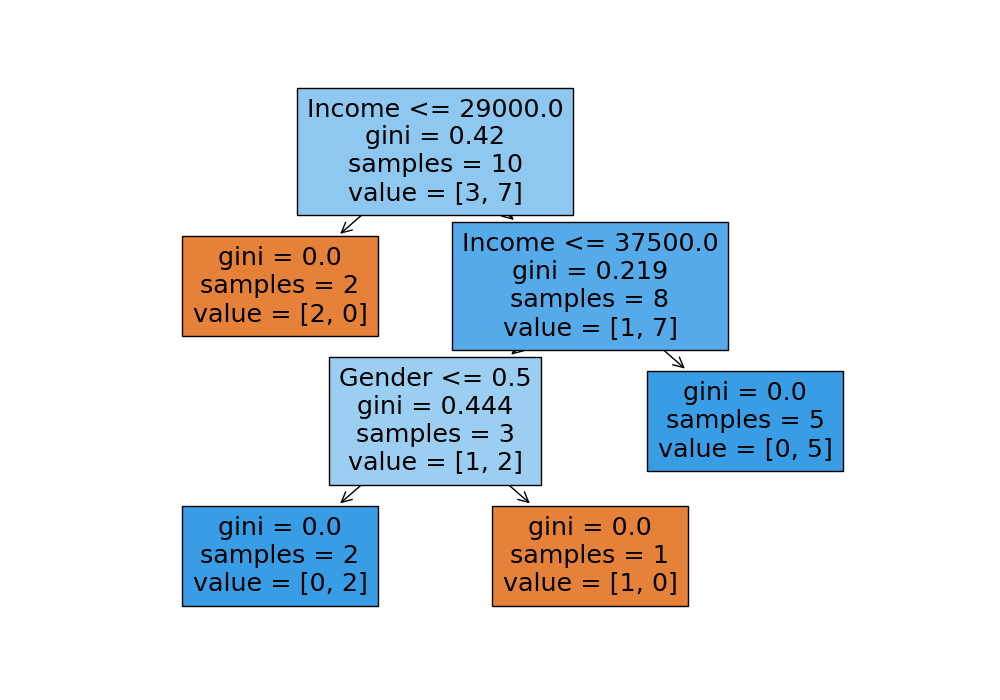
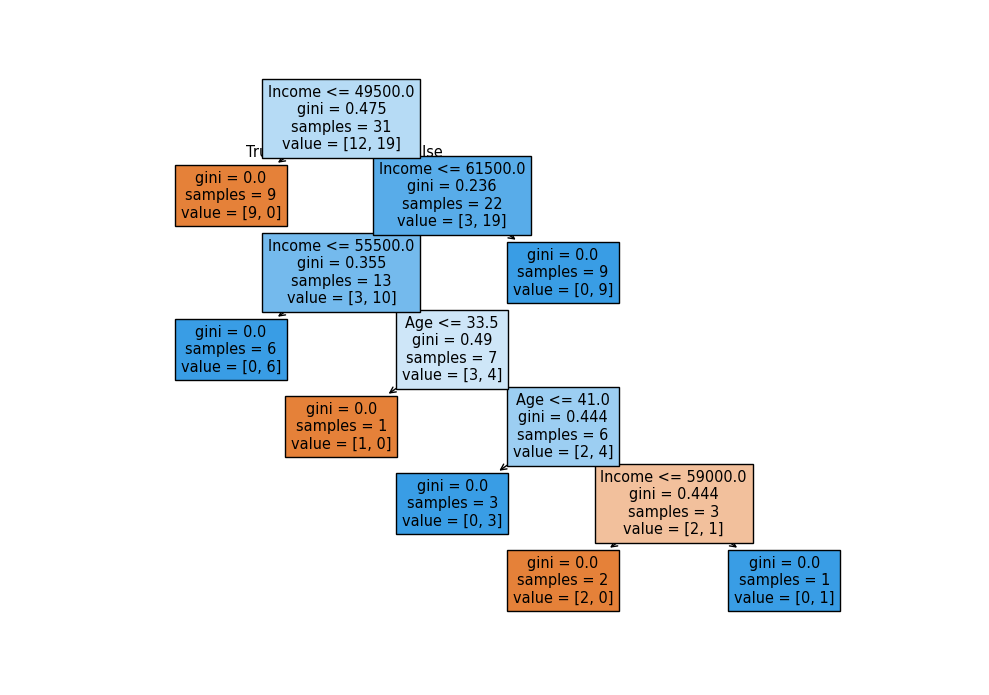
fixing

diff --git a/dataset.py b/dataset.py
@@ -12,16 +12,37 @@ def createCsv(filename, data):
 if __name__ == "__main__":
     # Data to be written to the CSV file
     data = [
-        {"Age": 25, "Gender": "Male", "Income": 35000, "Purchase": "No"},
-        {"Age": 30, "Gender": "Female", "Income": 30000, "Purchase": "Yes"},
-        {"Age": 35, "Gender": "Female", "Income": 32000, "Purchase": "Yes"},
-        {"Age": 20, "Gender": "Male", "Income": 40000, "Purchase": "Yes"},
-        {"Age": 40, "Gender": "Male", "Income": 45000, "Purchase": "Yes"},
-        {"Age": 45, "Gender": "Female", "Income": 28000, "Purchase": "No"},
-        {"Age": 55, "Gender": "Male", "Income": 55000, "Purchase": "Yes"},
-        {"Age": 50, "Gender": "Female", "Income": 26000, "Purchase": "No"},
-        {"Age": 22, "Gender": "Male", "Income": 42000, "Purchase": "Yes"},
-        {"Age": 38, "Gender": "Female", "Income": 58000, "Purchase": "Yes"},
+        {"Age": 20, "Gender": "Male", "Income": 40000, "Purchase": "No"},
+        {"Age": 22, "Gender": "Male", "Income": 42000, "Purchase": "No"},
+        {"Age": 25, "Gender": "Male", "Income": 90000, "Purchase": "Yes"},
+        {"Age": 30, "Gender": "Male", "Income": 55000, "Purchase": "Yes"},
+        {"Age": 40, "Gender": "Male", "Income": 60000, "Purchase": "Yes"},
+        {"Age": 55, "Gender": "Male", "Income": 70000, "Purchase": "Yes"},
+        {"Age": 60, "Gender": "Male", "Income": 75000, "Purchase": "Yes"},
+        {"Age": 28, "Gender": "Male", "Income": 50000, "Purchase": "Yes"},
+        {"Age": 35, "Gender": "Male", "Income": 57000, "Purchase": "Yes"},
+        {"Age": 24, "Gender": "Male", "Income": 46000, "Purchase": "No"},
+        {"Age": 27, "Gender": "Male", "Income": 49000, "Purchase": "No"},
+        {"Age": 32, "Gender": "Male", "Income": 60000, "Purchase": "No"},
+        {"Age": 40, "Gender": "Male", "Income": 65000, "Purchase": "Yes"},
+        {"Age": 45, "Gender": "Male", "Income": 70000, "Purchase": "Yes"},
+        {"Age": 52, "Gender": "Male", "Income": 75000, "Purchase": "Yes"},
+        {"Age": 30, "Gender": "Female", "Income": 45000, "Purchase": "No"},
+        {"Age": 32, "Gender": "Female", "Income": 48000, "Purchase": "No"},
+        {"Age": 35, "Gender": "Female", "Income": 47000, "Purchase": "No"},
+        {"Age": 38, "Gender": "Female", "Income": 60000, "Purchase": "Yes"},
+        {"Age": 40, "Gender": "Female", "Income": 55000, "Purchase": "Yes"},
+        {"Age": 45, "Gender": "Female", "Income": 50000, "Purchase": "Yes"},
+        {"Age": 50, "Gender": "Female", "Income": 48000, "Purchase": "No"},
+        {"Age": 60, "Gender": "Female", "Income": 65000, "Purchase": "Yes"},
+        {"Age": 65, "Gender": "Female", "Income": 60000, "Purchase": "Yes"},
+        {"Age": 33, "Gender": "Female", "Income": 49000, "Purchase": "No"},
+        {"Age": 29, "Gender": "Female", "Income": 52000, "Purchase": "Yes"},
+        {"Age": 34, "Gender": "Female", "Income": 54000, "Purchase": "Yes"},
+        {"Age": 42, "Gender": "Female", "Income": 56000, "Purchase": "No"},
+        {"Age": 47, "Gender": "Female", "Income": 58000, "Purchase": "No"},
+        {"Age": 56, "Gender": "Female", "Income": 63000, "Purchase": "Yes"},
+        {"Age": 62, "Gender": "Female", "Income": 65000, "Purchase": "Yes"},
     ]
 
     # Call the function to create the CSV file

diff --git a/run.py b/run.py
@@ -8,24 +8,27 @@ def main():
     df = pd.read_csv("./data/data.csv")
 
     # Map categorical variables to numerical values
-    d = {"Female": 0, "Male": 1}
-    df["Gender"] = df["Gender"].map(d)
-    d = {"Yes": 1, "No": 0}
-    df["Purchase"] = df["Purchase"].map(d)
+    d = {'Female': 0, 'Male': 1}
+    df['Gender'] = df['Gender'].map(d)
+    d = {'Yes': 1, 'No': 0}
+    df['Purchase'] = df['Purchase'].map(d)
 
     # Define features and target variable
-    features = ["Age", "Gender", "Income"]
+    features = ['Age', 'Gender', 'Income']
     X = df[features]
-    Y = df["Purchase"]
+    Y = df['Purchase']
 
     # Train Decision Tree Classifier
     dtree = DecisionTreeClassifier()
     dtree = dtree.fit(X, Y)
 
     # Predict
-    prediction = dtree.predict([[30, 1, 50000]])
+    input_data = pd.DataFrame([[50, 1, 50000]], columns=features)
+    prediction = dtree.predict(input_data)
     print("Prediction:", prediction)
 
+    print("[1] means 'Yes'")
+    print("[0] means 'No'")
 
 if __name__ == "__main__":
     main()

diff --git a/plot_decision_tree.py b/plot_decision_tree.py
@@ -1,0 +1,33 @@
+import sys
+import matplotlib
+import pandas as pd
+from sklearn.tree import DecisionTreeClassifier, plot_tree
+import matplotlib.pyplot as plt
+
+def main():
+    # Convert data to DataFrame
+    df = pd.read_csv("./data/data.csv")
+
+    # Map categorical variables to numerical values
+    d = {'Female': 0, 'Male': 1}
+    df['Gender'] = df['Gender'].map(d)
+    d = {'Yes': 1, 'No': 0}
+    df['Purchase'] = df['Purchase'].map(d)
+
+    # Define features and target variable
+    features = ['Age', 'Gender', 'Income']
+    X = df[features]
+    Y = df['Purchase']
+
+    # Train Decision Tree Classifier
+    dtree = DecisionTreeClassifier()
+    dtree = dtree.fit(X, Y)
+
+    # Plot decision tree
+    plt.figure(figsize=(10, 7))
+    plot_tree(dtree, feature_names=features, filled=True)
+    plt.savefig("decision_tree.png")
+    plt.show()
+
+if __name__ == "__main__":
+    main()

diff --git a/README.md b/README.md
@@ -1,13 +1,23 @@
 # ML Python Decision Tree - Exercise
 
+Install the required dependencies:
+```sh
+pip install -r requirements.txt
+```
+
 Create dataset:
 ```sh
 python3 dataset.py
 ```
 
+Generate plot tree:
+```sh
+python3 plot_decision_tree.py
+```
+
 Running:
 ```sh
-python3 index.py
+python3 run.py
 ```
 
 - [1] means 'Yes'
